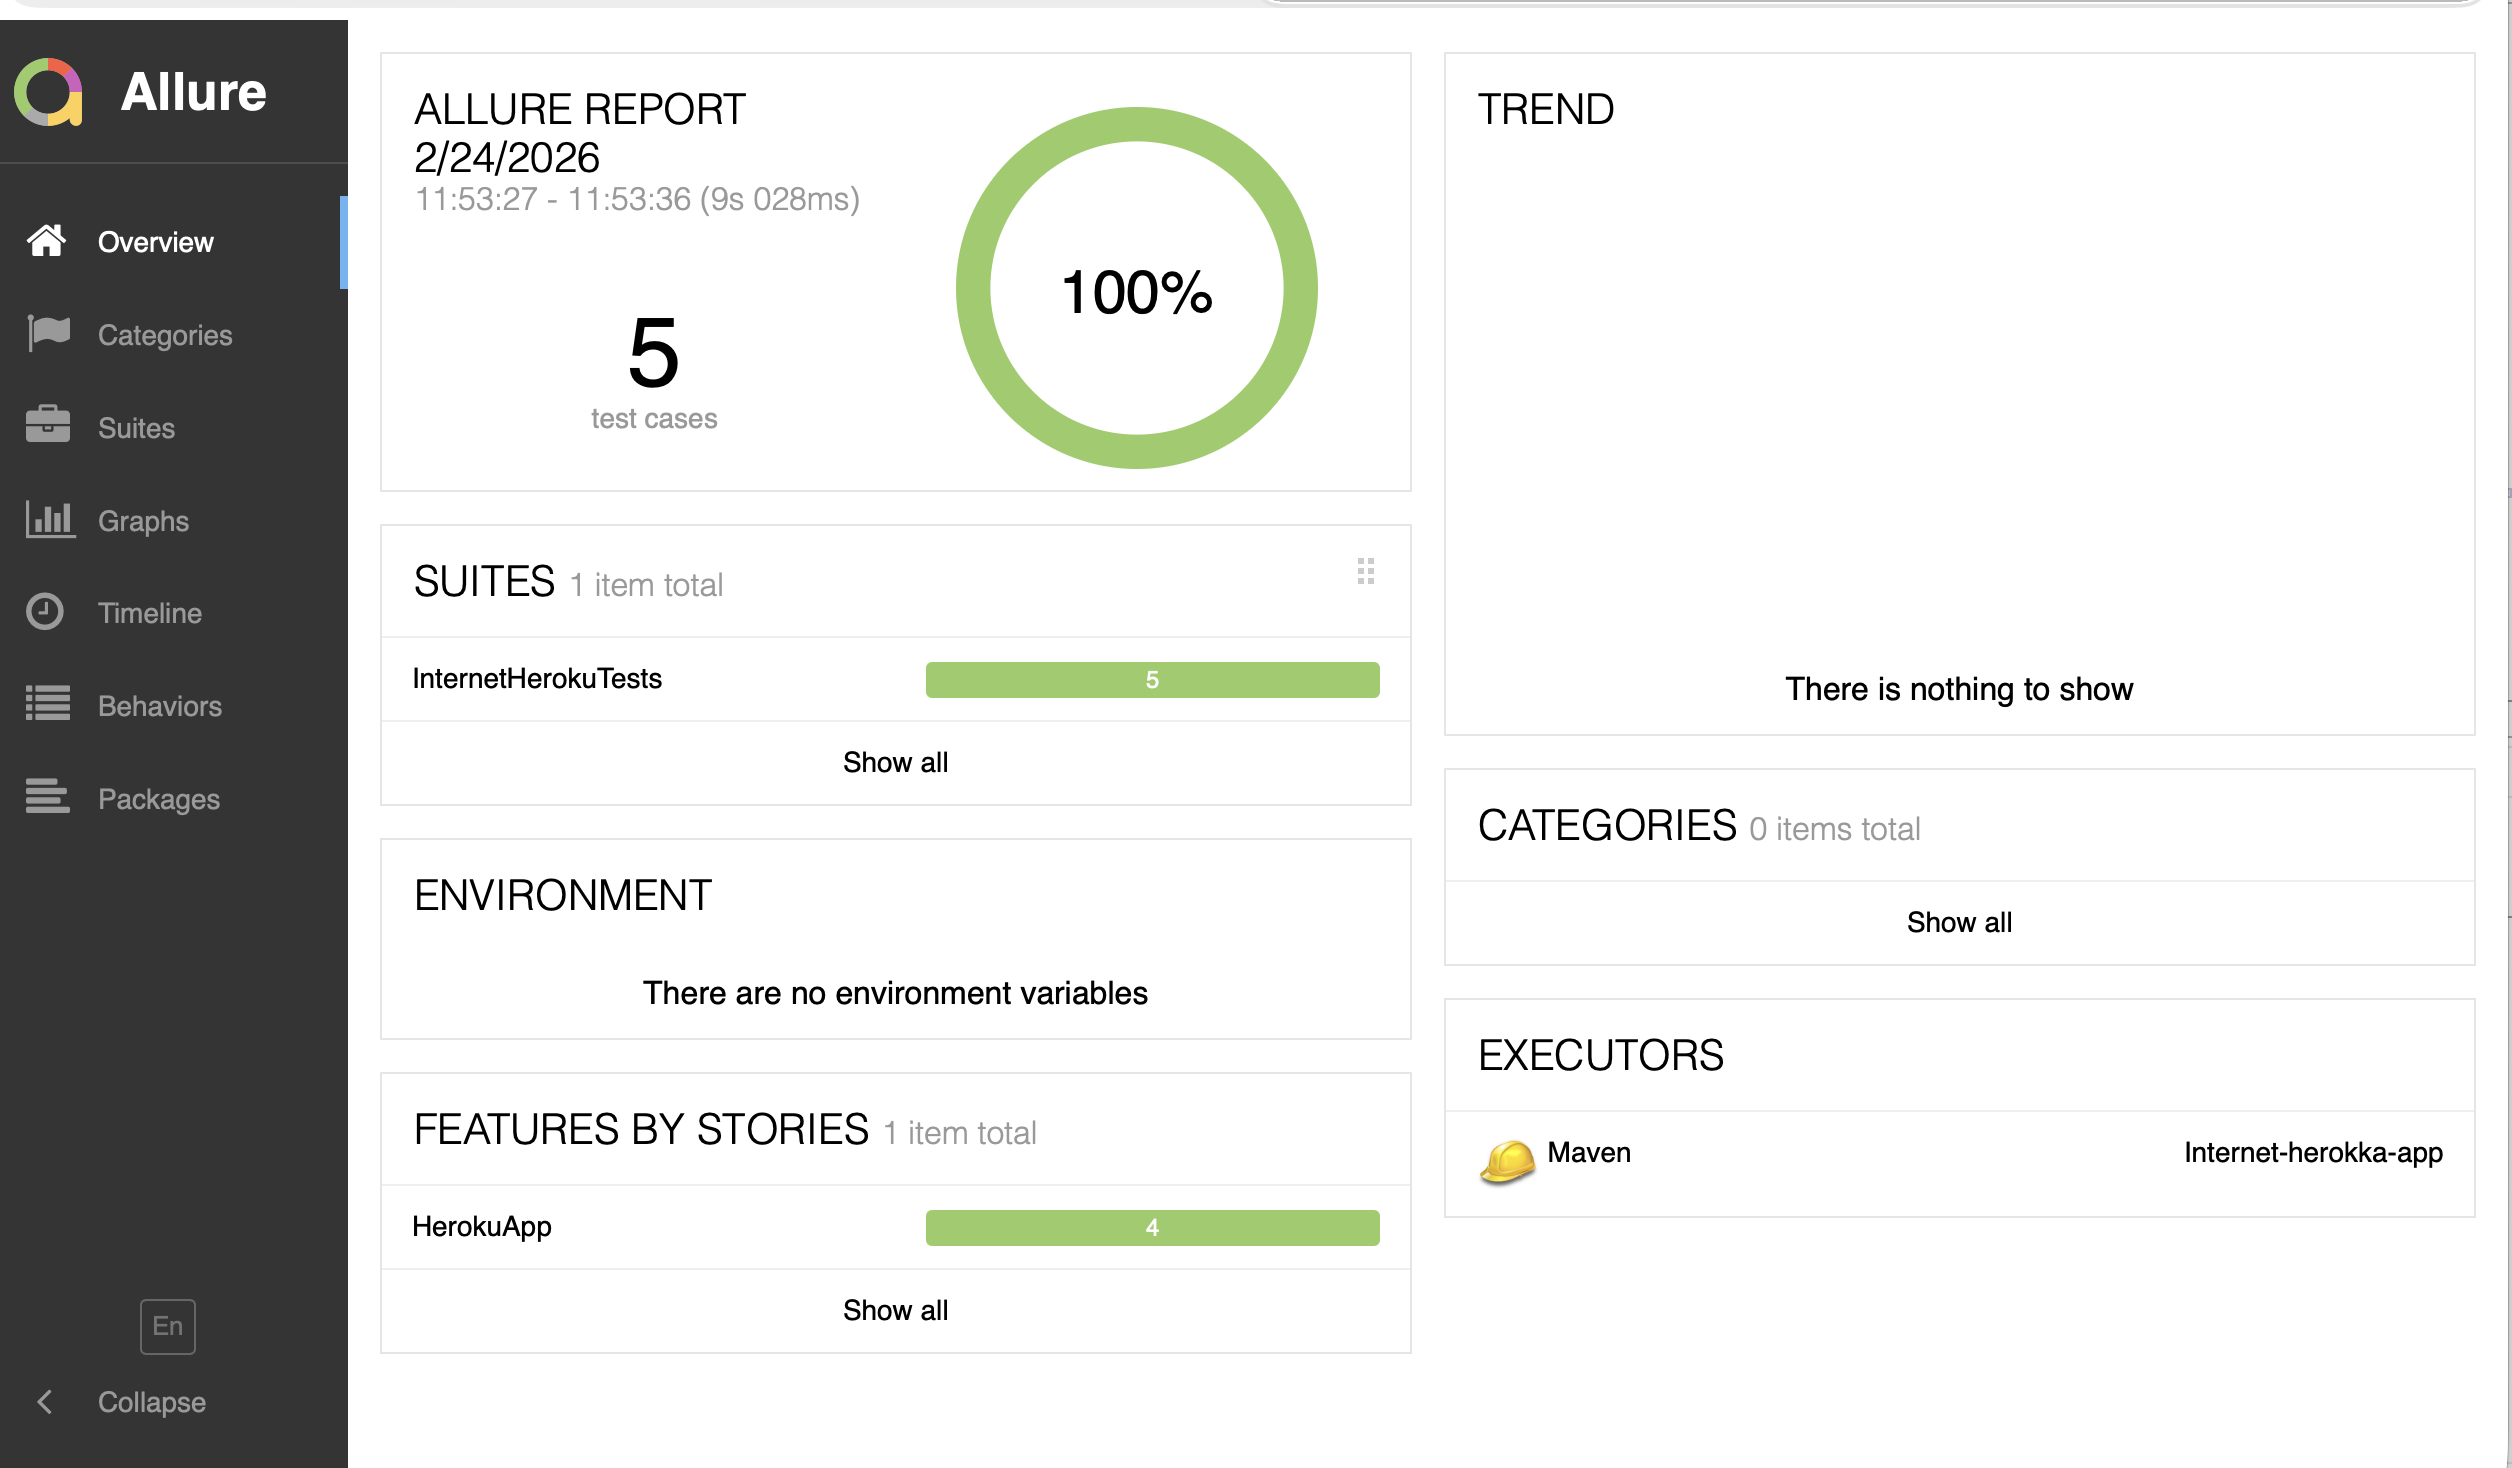
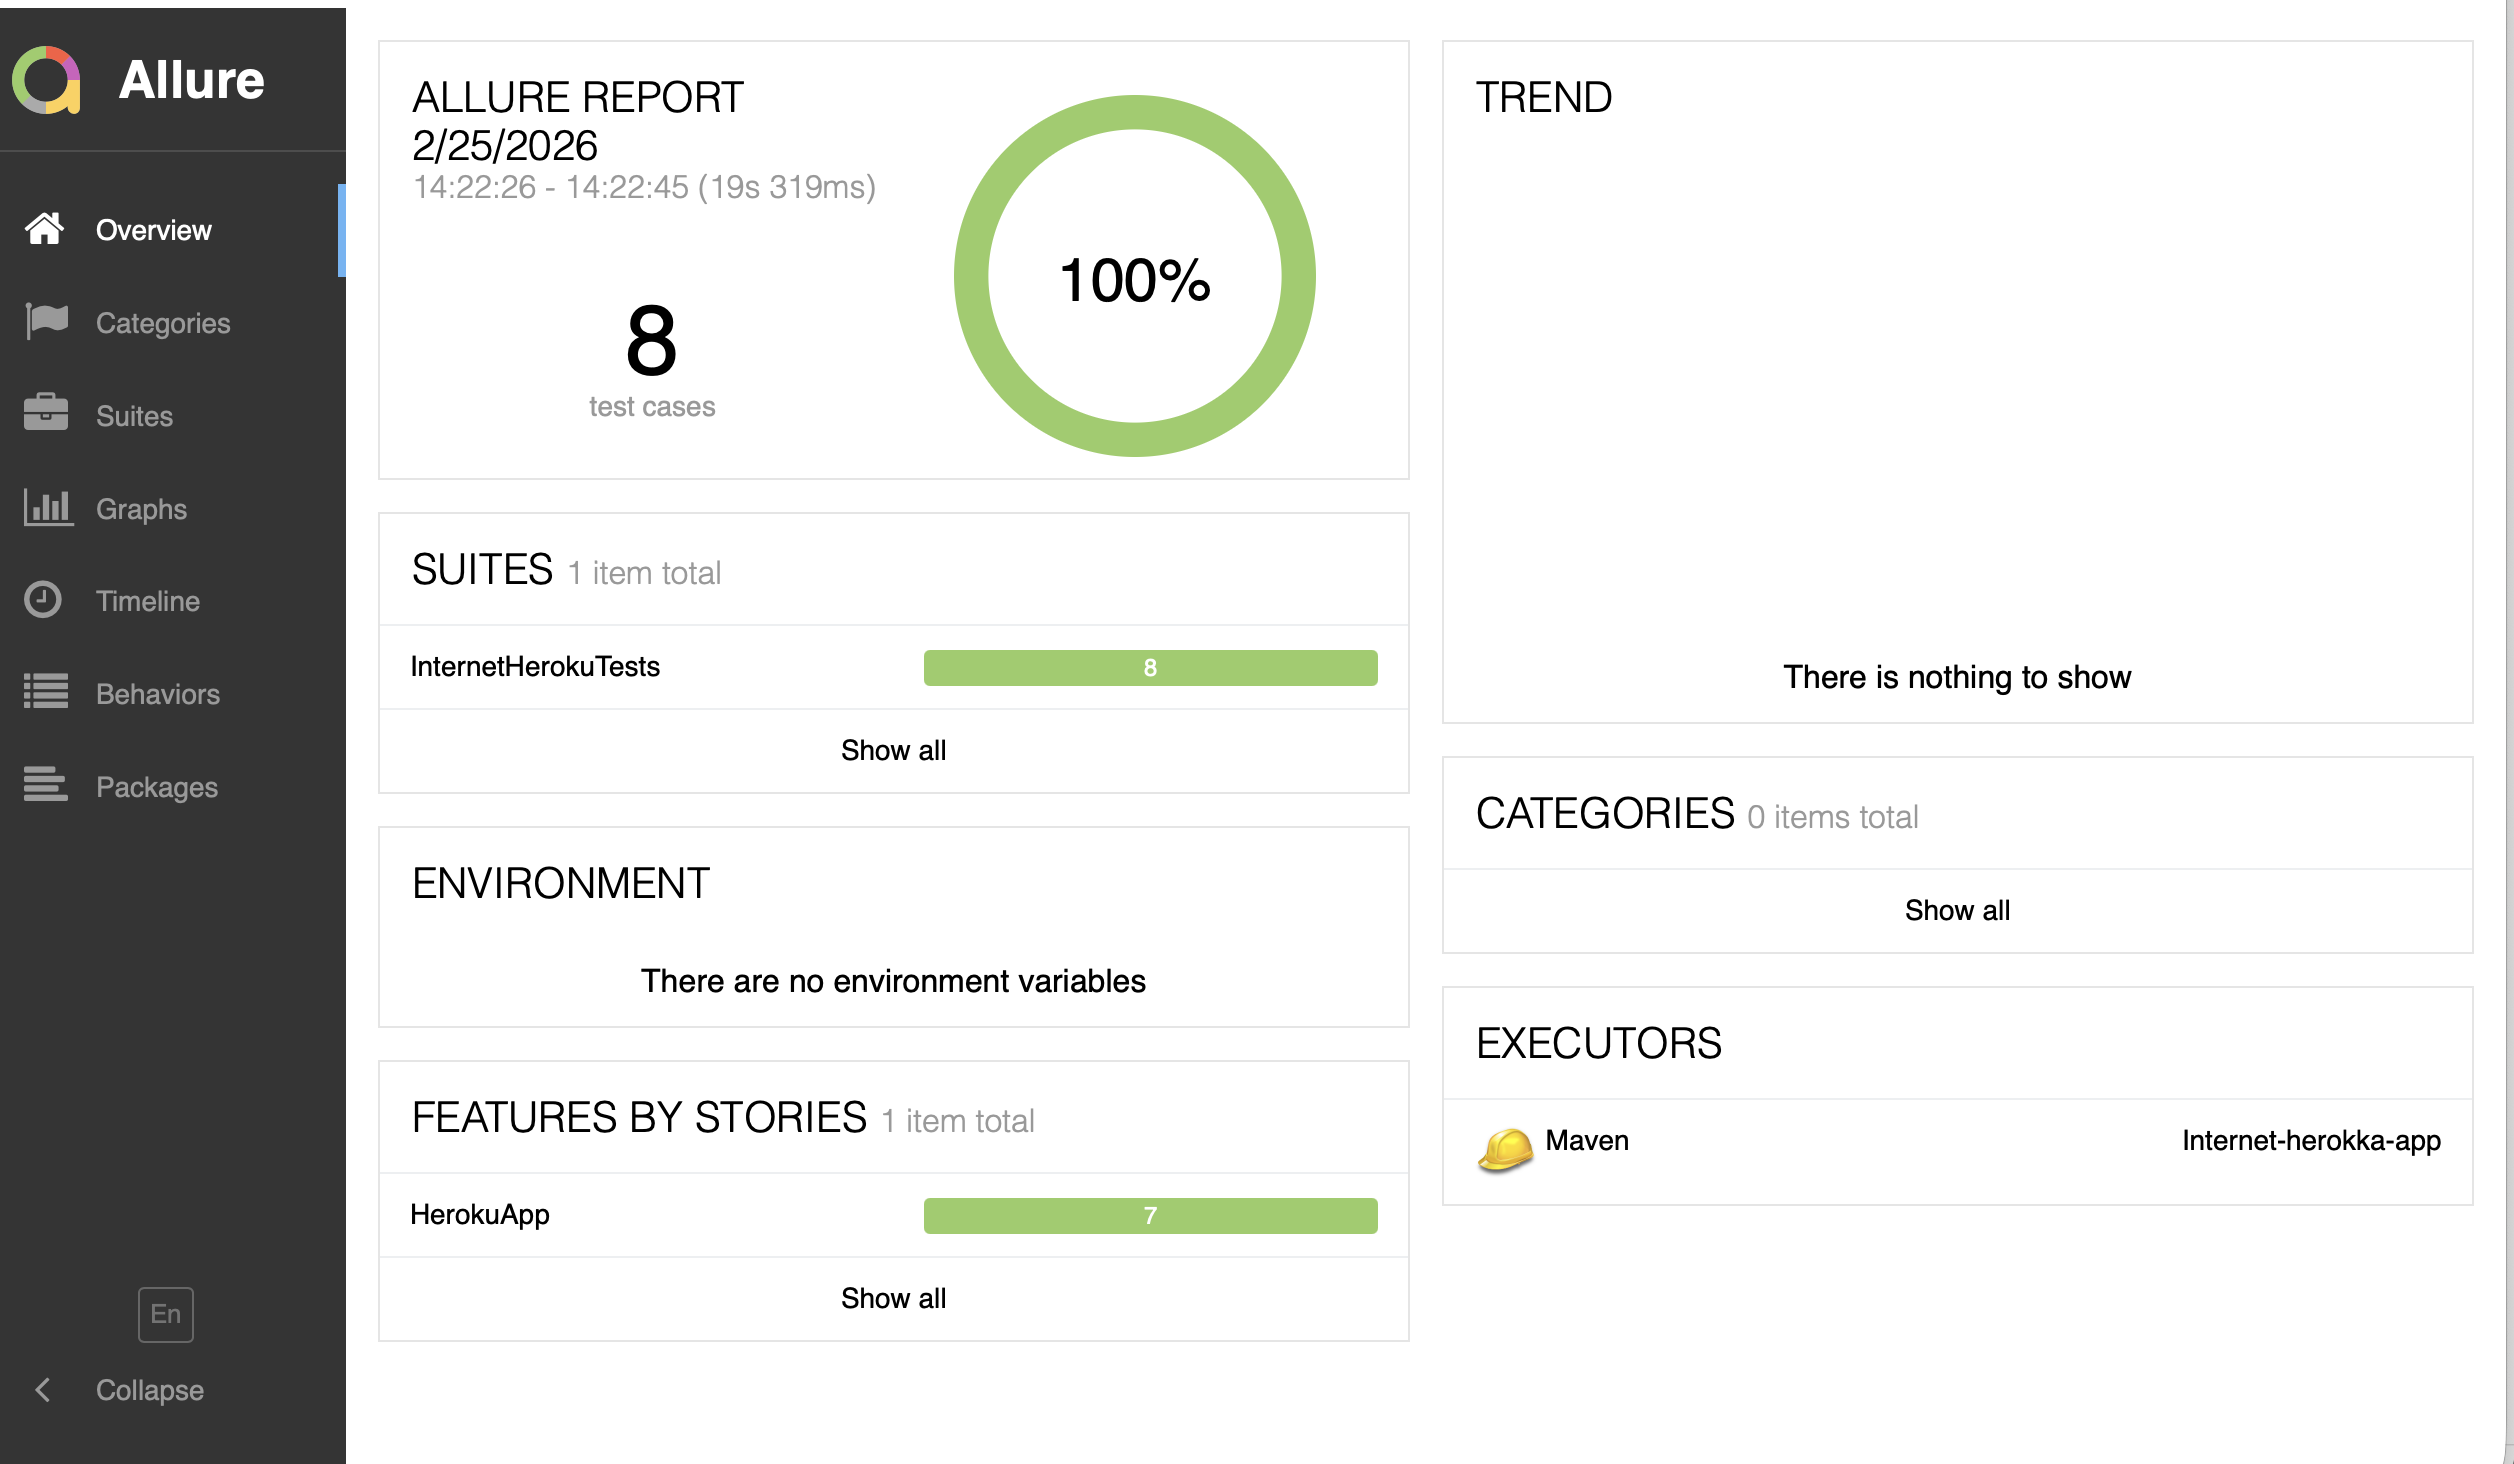
added basic auth and broken link

diff --git a/src/test/java/basicAuth/BasicAuthTest.java b/src/test/java/basicAuth/BasicAuthTest.java
@@ -1,0 +1,45 @@
+package basicAuth;
+
+import base.BaseTest;
+import io.qameta.allure.Epic;
+import io.qameta.allure.Feature;
+import io.qameta.allure.Story;
+import org.testng.annotations.BeforeMethod;
+import org.testng.annotations.Test;
+import pages.BasicAuthPage;
+
+import static org.testng.Assert.assertEquals;
+@Epic("HerokuApp")
+public class BasicAuthTest extends BaseTest {
+    @BeforeMethod
+    public void goToBasicAuthPage() {
+        getDriver().get("https://the-internet.herokuapp.com");
+        System.out.println("Running thread: " + Thread.currentThread().getName());
+
+    }
+
+    @Feature("Basic Auth")
+    @Story("User logins with basic auth")
+    @Test(description = "Verify  if the login is successful")
+    public void basicAuthTest(){
+     getDriver().get("https://admin:admin@the-internet.herokuapp.com/basic_auth");
+        BasicAuthPage basicAuthPage = new BasicAuthPage(getDriver());
+     String message = basicAuthPage.getSuccessMessage();
+     System.out.println(message);
+        assertEquals(message,  "Congratulations! You must have the proper credentials.","Success message is incorrect");
+
+
+    }
+    @Story("User logins with invalid credentials for basic auth")
+    @Test(description = "Verify success message is not returned for invalid credentials")
+    public void basicAuthUnauthorizedTest() {
+        getDriver().get("https://wrong:wrong@the-internet.herokuapp.com/basic_auth");
+
+        String pageSource = getDriver().getPageSource();
+
+        boolean successMessagePresent = pageSource.contains("Congratulations!");
+
+        assertEquals(successMessagePresent, false, "User should NOT be authenticated with invalid credentials");
+    }
+
+}

diff --git a/src/main/java/pages/BrokenImagesPage.java b/src/main/java/pages/BrokenImagesPage.java
@@ -1,0 +1,44 @@
+package pages;
+
+import org.openqa.selenium.By;
+import org.openqa.selenium.JavascriptExecutor;
+import org.openqa.selenium.WebDriver;
+import org.openqa.selenium.WebElement;
+import org.openqa.selenium.support.ui.ExpectedCondition;
+import org.openqa.selenium.support.ui.ExpectedConditions;
+import org.openqa.selenium.support.ui.WebDriverWait;
+
+import java.time.Duration;
+import java.util.ArrayList;
+import java.util.List;
+
+public class BrokenImagesPage {
+    private WebDriver driver;
+    private  WebDriverWait wait;
+
+    // Using CSS Selector for testing
+
+    private static final String IMAGES = "img[src$='jpg']";
+    public BrokenImagesPage(WebDriver driver){
+    this.driver = driver;
+    this.wait = new WebDriverWait(driver, Duration.ofSeconds(10));
+}
+
+public List getBrokenImages() {
+    wait.until(ExpectedConditions.visibilityOfAllElementsLocatedBy(By.cssSelector(IMAGES)));
+    List<WebElement> images = driver.findElements(By.cssSelector(IMAGES));
+    List<String> brokenImagesList = new ArrayList<>();
+    for (WebElement image : images) {
+        String imgSrc = image.getAttribute("src");
+        boolean isImageLoaded = (Boolean) ((JavascriptExecutor) driver).executeScript("return arguments[0].naturalWidth>0;", image);
+
+        if (!isImageLoaded) {
+            brokenImagesList.add(imgSrc);
+           // System.out.println("The broken image is " + imgSrc);
+        }
+    }
+    return brokenImagesList;
+}
+
+
+}

diff --git a/src/test/java/brokenImages/BrokenImagesTest.java b/src/test/java/brokenImages/BrokenImagesTest.java
@@ -1,0 +1,38 @@
+package brokenImages;
+
+import base.BaseTest;
+import io.qameta.allure.Epic;
+import io.qameta.allure.Feature;
+import io.qameta.allure.Story;
+import org.testng.annotations.BeforeMethod;
+import org.testng.annotations.Test;
+import pages.AlertsPage;
+import pages.BrokenImagesPage;
+import pages.HomePage;
+
+import java.util.List;
+
+import static org.testng.Assert.assertEquals;
+@Epic("HerokuApp")
+public class BrokenImagesTest  extends BaseTest
+{
+    @BeforeMethod
+    public void goToBrokenImagesPage()
+    {
+        getDriver().get("https://the-internet.herokuapp.com");
+
+        System.out.println("Running thread: " + Thread.currentThread().getName());
+    }
+    @Feature("Broken Images")
+    @Story("User clicks on broken Images")
+    @Test(description = "Verify the number of broken images")
+    public void brokenImagesTest()
+    {
+        int actualCount = 2;
+        BrokenImagesPage brokenImagesPage = new HomePage(getDriver()).clickBrokenImagesLink();
+        List<String> brokenImages =  brokenImagesPage.getBrokenImages();
+        System.out.println("The broken image are " + brokenImages);
+        assertEquals(brokenImages.size(), actualCount,"Expected number of broken images is not correct");
+
+    }
+}

diff --git a/src/test/java/alerts/AlertTests.java b/src/test/java/alerts/AlertTests.java
@@ -10,7 +10,7 @@ import pages.AlertsPage;
 import pages.HomePage;
 
 import static org.testng.Assert.assertEquals;
-
+@Epic("HerokuApp")
 public class AlertTests extends BaseTest {
 
     @BeforeMethod
@@ -19,7 +19,7 @@ public class AlertTests extends BaseTest {
 
         System.out.println("Running thread: " + Thread.currentThread().getName());
     }
-    @Epic("HerokuApp")
+
     @Feature("JavaScript Alert")
     @Story("User JavaScript Alert button")
     @Test(description = "Verify JavaScript Alert functionality")
@@ -30,7 +30,7 @@ public class AlertTests extends BaseTest {
         assertEquals(alertPage.getResultMessage(), "You successfully clicked an alert", "Result message is incorrect");
     }
 
-    @Epic("HerokuApp")
+
     @Feature("JavaScript Confirm ")
     @Story("User JavaScript Confirm  button")
     @Test(description = "Verify JavaScript Confirm functionality")
@@ -41,7 +41,7 @@ public class AlertTests extends BaseTest {
         assertEquals(alertPage.getResultMessage(), "You clicked: Ok", "Result message is incorrect");
     }
 
-    @Epic("HerokuApp")
+
     @Feature("JavaScript Prompt ")
     @Story("User JavaScript Prompt  button")
     @Test(description = "Verify JavaScript Prompt functionality")

diff --git a/src/test/java/addRemoveElements/AddRemoveElemTest.java b/src/test/java/addRemoveElements/AddRemoveElemTest.java
@@ -12,14 +12,14 @@ import pages.HomePage;
 
 import static org.testng.Assert.assertEquals;
 
-
+@Epic("HerokuApp")
 public class AddRemoveElemTest extends BaseTest {
     @BeforeMethod
     public void goToAddRemoveElemPage(){
         getDriver().get("https://the-internet.herokuapp.com");
         System.out.println("Running thread: " + Thread.currentThread().getName());
     }
-    @Epic("HerokuApp")
+
     @Feature("Add/Remove Elements")
     @Story("User clicks add remove elements button")
     @Test(description = "Verify  add remove elements button functionality")
@@ -33,7 +33,7 @@ public class AddRemoveElemTest extends BaseTest {
     assertEquals(size,2,"Delete button count is incorrect expected was "+'2'+" actual was "+size);
   }
 
-    @Epic("HerokuApp")
+
     @Feature("Add/Remove Elements")
     @Story("User clicks delete elements button")
     @Test(description = "Verify delete button functionality")

diff --git a/src/main/java/pages/BasicAuthPage.java b/src/main/java/pages/BasicAuthPage.java
@@ -1,0 +1,30 @@
+package pages;
+
+import org.openqa.selenium.By;
+import org.openqa.selenium.WebDriver;
+import org.openqa.selenium.support.ui.ExpectedCondition;
+import org.openqa.selenium.support.ui.ExpectedConditions;
+import org.openqa.selenium.support.ui.WebDriverWait;
+
+import java.time.Duration;
+
+public class BasicAuthPage {
+    private final WebDriver driver;
+    private WebDriverWait wait;
+
+    // Using CSS Selector for testing
+    private static final String LOGIN_MESSAGE = "p";
+
+    public BasicAuthPage(WebDriver driver) {
+        this.driver = driver;
+        this.wait = new WebDriverWait(driver, Duration.ofSeconds(5));
+    }
+
+    public String getSuccessMessage() {
+        String message = wait.until(ExpectedConditions.visibilityOfElementLocated(By.cssSelector(LOGIN_MESSAGE))).getText();
+        return message;
+
+    }
+
+
+}

diff --git a/src/main/java/pages/HomePage.java b/src/main/java/pages/HomePage.java
@@ -11,6 +11,7 @@ public class HomePage {
     private final WebDriver driver;
     private static final String JSALERTS = "a[href*='alerts']";
     private static final String ADDREMOVELEM="a[href*='remove']";
+    private static final String BROKEN_IMAGES_LINK = "a[href*='broken_images']";
 
     private WebDriverWait wait;
     public HomePage(WebDriver driver){
@@ -30,6 +31,12 @@ public class HomePage {
         return new AddRemoveElemPage(driver);
 
 
+    }
+
+    public BrokenImagesPage clickBrokenImagesLink(){
+        wait.until(ExpectedConditions.elementToBeClickable(By.cssSelector(BROKEN_IMAGES_LINK)));
+        driver.findElement(By.cssSelector(BROKEN_IMAGES_LINK)).click();
+        return new BrokenImagesPage(driver);
     }
 
 

diff --git a/src/test/java/base/BaseTest.java b/src/test/java/base/BaseTest.java
@@ -37,7 +37,9 @@ public class BaseTest {
         driver.set(webDriver);
     }
 
-    protected WebDriver getDriver() { return driver.get(); }
+    protected WebDriver getDriver() {
+        return driver.get();
+    }
 
     @AfterMethod
     public void tearDown(){
